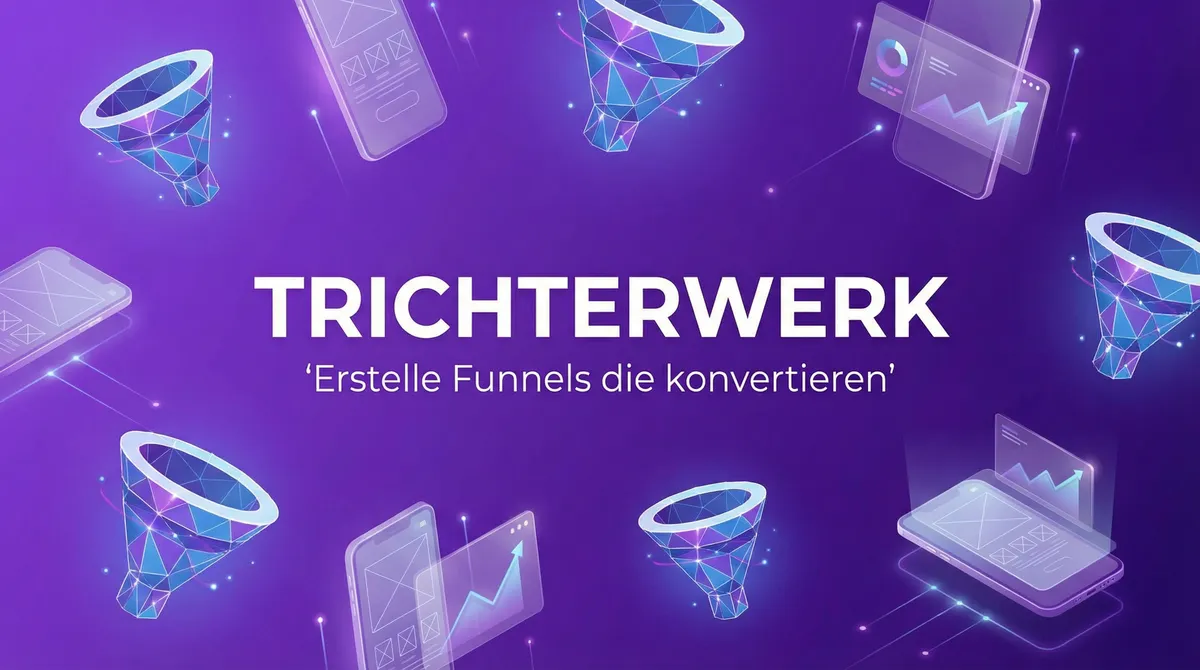
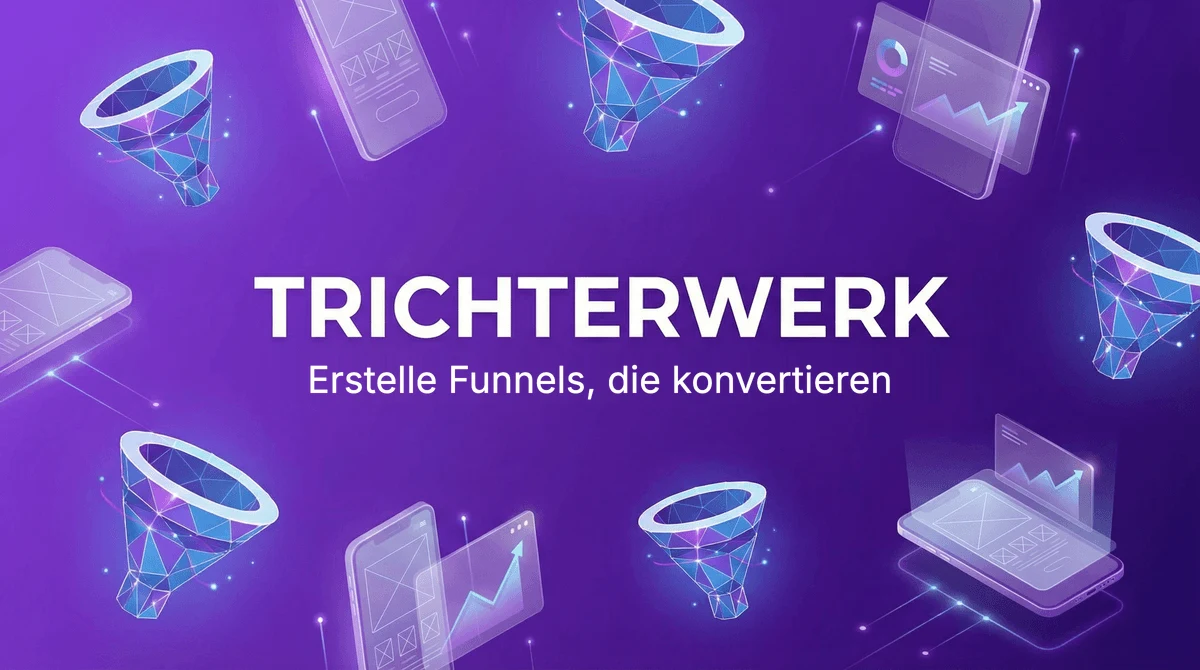
fix: Hero-Bild durch echten Dashboard-Screenshot ersetzt
Das KI-generierte Hero-Bild der Startseite enthielt sichtbare Textfehler
(„Deshboard", „Sales Manument", „All statics", „See All All", Hex-Codes als
Chart-Labels, doppelte Karten) — above the fold auf einem Produkt, das mit
„ohne Code, professionell" wirbt.

- scripts/capture-hero-screenshot.ts: nimmt das echte Dashboard mit Demo-Daten
  per Playwright auf (npm run capture:hero). Nach jedem UI-Update in Sekunden
  wiederholbar, KI-Textfehler sind damit strukturell ausgeschlossen.
- hero-dashboard.png/.webp neu aufgenommen (WebP @2x, PNG @1x als Fallback)
- hero-builder.png/.webp entfernt: zeigte fremdes „LeadFlow"-Branding, war im
  Code ungenutzt, aber unter /images/ öffentlich abrufbar
- og-image: fehlendes Komma und falsche Anführungszeichen im eingebrannten
  Claim korrigiert → „Erstelle Funnels, die konvertieren"
- „vor 1 Tagen" → „vor 1 Tag" in dashboard.tsx und leads.tsx
- alt-Text des Hero-Bilds an den neuen Inhalt angepasst

Changed region(s): [[0.2467, 0.5373, 0.74, 0.597]]

diff --git a/scripts/capture-hero-screenshot.ts b/scripts/capture-hero-screenshot.ts
@@ -1,0 +1,302 @@
+/**
+ * Nimmt das Hero-Bild der Startseite als echten Screenshot des echten Dashboards auf:
+ *   client/public/images/hero-dashboard.png + .webp   (1200×800, @2x gerendert)
+ *
+ * Warum ein Skript statt eines gerenderten Mockups: Das frühere Hero-Bild war
+ * KI-generiert und enthielt sichtbare Textfehler („Deshboard", „Sales Manument",
+ * „All statics"). Ein Screenshot der laufenden App kann solche Fehler nicht
+ * enthalten und lässt sich nach jedem UI-Update in Sekunden neu erzeugen.
+ *
+ * Ablauf: Demo-Konto per API anlegen → Demo-Funnels + Leads einspielen →
+ * Dashboard aufrufen → Screenshot. Die Demo-Daten sind bewusst plausibel, aber
+ * eindeutig fiktiv (E-Mails auf example.com — RFC 2606, kann niemandem gehören).
+ *
+ * Voraussetzung: laufender E2E-Server auf der Wegwerf-DB.
+ *   npm run test:e2e:server      # Terminal 1
+ *   npm run capture:hero         # Terminal 2
+ *
+ * Optionen:
+ *   BASE_URL=…      Zielserver (Default: http://localhost:5137)
+ *   DATABASE_URL=…  Datenbank desselben Servers (Default: die E2E-Wegwerf-DB)
+ *   THEME=dark|light|both   Welche Variante(n) aufnehmen (Default: both)
+ *
+ * Sicherheitsnetz: Das Skript schreibt Demo-Daten und weigert sich deshalb,
+ * gegen eine nicht-lokale Datenbank zu laufen (siehe assertLocalDatabase).
+ */
+import { chromium, type Browser } from "@playwright/test";
+import fs from "node:fs";
+import path from "node:path";
+import pg from "pg";
+import sharp from "sharp";
+
+const BASE_URL = process.env.BASE_URL ?? "http://localhost:5137";
+const DATABASE_URL =
+  process.env.DATABASE_URL ??
+  `postgresql://${process.env.USER ?? "postgres"}@localhost:5432/funnelsoftware_e2e`;
+const THEME = (process.env.THEME ?? "dark") as "dark" | "light" | "both";
+
+const ROOT = path.resolve(import.meta.dirname, "..");
+const IMAGE_DIR = path.join(ROOT, "client/public/images");
+
+/**
+ * Aufnahme-Viewport. Bewusst größer als das Zielmaß und im selben 3:2, damit
+ * mehr vom Dashboard ins Bild passt und die UI im fertigen Hero feiner wirkt.
+ */
+const VIEWPORT = { width: 1440, height: 960 };
+
+/** Zielmaß des Hero-Bilds — identisch zu width/height in landing.tsx, @2x ausgeliefert. */
+const OUTPUT = { width: 2400, height: 1600 };
+
+/**
+ * Demo-Funnels. Namen und Kennzahlen sind so gewählt, dass sie ein plausibel
+ * genutztes Konto zeigen — nicht Rekordwerte, die unglaubwürdig wirken.
+ */
+const DEMO_FUNNELS = [
+  {
+    name: "Erstgespräch Q4-Kampagne",
+    description: "Terminbuchung mit Budget-Qualifizierung",
+    views: 4820,
+    leads: 412,
+  },
+  {
+    name: "Leadmagnet: Funnel-Checkliste",
+    description: "PDF-Download gegen E-Mail-Adresse",
+    views: 3140,
+    leads: 356,
+  },
+  {
+    name: "Webinar-Anmeldung Oktober",
+    description: "Registrierung inkl. Erinnerungsstrecke",
+    views: 2265,
+    leads: 198,
+  },
+];
+
+/**
+ * Demo-Leads für die „Neueste Leads"-Karte. `minutesAgo` steuert die relative
+ * Zeitangabe im UI („vor 12 Min"), `status` die farbige Statuskugel.
+ */
+const DEMO_LEADS = [
+  { name: "Lena Hoffmann", email: "l.hoffmann@example.com", funnel: 0, minutesAgo: 12, status: "new" },
+  { name: "Tobias Reinhardt", email: "t.reinhardt@example.com", funnel: 1, minutesAgo: 47, status: "new" },
+  { name: "Sandra Költzsch", email: "s.koeltzsch@example.com", funnel: 0, minutesAgo: 185, status: "contacted" },
+  { name: "Michael Bauer", email: "m.bauer@example.com", funnel: 2, minutesAgo: 320, status: "qualified" },
+  { name: "Nadine Wolters", email: "n.wolters@example.com", funnel: 1, minutesAgo: 1490, status: "converted" },
+];
+
+/**
+ * Das Skript legt Demo-Daten an und darf deshalb nie eine echte Datenbank
+ * treffen. Erlaubt sind nur lokale Hosts — die Prod-DB läuft remote.
+ */
+function assertLocalDatabase(url: string): void {
+  const host = new URL(url).hostname;
+  if (!["localhost", "127.0.0.1", "::1"].includes(host)) {
+    console.error(
+      `Abbruch: DATABASE_URL zeigt auf "${host}", nicht auf localhost.\n` +
+        `Dieses Skript schreibt Demo-Daten und darf nur gegen eine lokale Wegwerf-DB laufen.`,
+    );
+    process.exit(1);
+  }
+}
+
+async function assertServerReachable(): Promise<void> {
+  try {
+    const res = await fetch(BASE_URL, { signal: AbortSignal.timeout(5000) });
+    if (!res.ok) throw new Error(`HTTP ${res.status}`);
+  } catch (err) {
+    console.error(
+      `Kein Server unter ${BASE_URL} erreichbar (${(err as Error).message}).\n` +
+        `Starte zuerst: npm run test:e2e:server`,
+    );
+    process.exit(1);
+  }
+}
+
+/**
+ * Legt das Demo-Konto an und verifiziert es. Läuft über die echten Endpunkte,
+ * damit das Konto denselben Zustand hat wie ein regulär registrierter Nutzer.
+ * Die Session-Cookies landen im BrowserContext, aus dem `request` stammt.
+ */
+async function createDemoAccount(
+  request: import("@playwright/test").APIRequestContext,
+  pool: pg.Pool,
+  email: string,
+): Promise<number> {
+  const res = await request.post("/api/auth/register", {
+    data: { username: email.split("@")[0], email, password: "HeroDemo2026!" },
+  });
+  if (res.status() !== 201) {
+    throw new Error(`Registrierung fehlgeschlagen (${res.status()}): ${await res.text()}`);
+  }
+
+  const { rows } = await pool.query<{ id: number; email_verification_token: string }>(
+    "SELECT id, email_verification_token FROM users WHERE email = $1",
+    [email],
+  );
+  const user = rows[0];
+  if (!user) throw new Error(`Demo-Konto ${email} nicht in der DB gefunden`);
+
+  const verify = await request.get(
+    `/api/auth/verify-email?token=${encodeURIComponent(user.email_verification_token)}`,
+  );
+  if (!verify.ok()) throw new Error(`E-Mail-Verifikation fehlgeschlagen (${verify.status()})`);
+
+  // Aktives Abo + Anzeigename: unterdrückt den Trial-Ablauf-Banner, der sonst
+  // quer über dem Screenshot läge, und füllt die Begrüßung.
+  await pool.query(
+    `UPDATE users
+        SET subscription_status = 'active',
+            subscription_plan = 'pro',
+            is_pro = true,
+            display_name = 'Demo',
+            email_verified_at = now()
+      WHERE id = $1`,
+    [user.id],
+  );
+
+  return user.id;
+}
+
+/** Spielt Funnels und Leads direkt in die DB — Views/Leads-Zähler sind sonst nur über Tausende echter Requests erreichbar. */
+async function seedDemoData(pool: pg.Pool, userId: number, runId: string): Promise<void> {
+  const funnelIds: number[] = [];
+
+  for (const [i, funnel] of DEMO_FUNNELS.entries()) {
+    const { rows } = await pool.query<{ id: number }>(
+      `INSERT INTO funnels (user_id, name, description, status, slug, pages, views, leads_count, created_at, updated_at)
+       VALUES ($1, $2, $3, 'published', $4, $5::jsonb, $6, $7, now() - ($8 || ' days')::interval, now())
+       RETURNING id`,
+      [
+        userId,
+        funnel.name,
+        funnel.description,
+        `demo-${runId}-${i}`,
+        JSON.stringify([
+          { id: "page-1", type: "welcome", title: funnel.name, elements: [], buttonText: "Start" },
+        ]),
+        funnel.views,
+        funnel.leads,
+        String(30 - i * 7),
+      ],
+    );
+    funnelIds.push(rows[0].id);
+  }
+
+  for (const lead of DEMO_LEADS) {
+    await pool.query(
+      `INSERT INTO leads (funnel_id, user_id, name, email, status, source, created_at)
+       VALUES ($1, $2, $3, $4, $5, 'demo', now() - ($6 || ' minutes')::interval)`,
+      [funnelIds[lead.funnel], userId, lead.name, lead.email, lead.status, String(lead.minutesAgo)],
+    );
+  }
+}
+
+/** Nimmt das Dashboard in einem Theme auf und schreibt PNG + WebP. */
+async function capture(browser: Browser, theme: "dark" | "light", suffix: string): Promise<void> {
+  const context = await browser.newContext({
+    // Ohne baseURL scheitern die relativen Pfade in page.request/page.goto —
+    // das Skript läuft außerhalb der Playwright-Config, die sie sonst liefert.
+    baseURL: BASE_URL,
+    viewport: VIEWPORT,
+    // @2x rendern: Der Screenshot ist danach 2400×1600 und bleibt auf
+    // Retina-Displays scharf, wenn er auf 1200 CSS-Pixel skaliert wird.
+    deviceScaleFactor: 2,
+    locale: "de-DE",
+    timezoneId: "Europe/Berlin",
+    reducedMotion: "reduce",
+  });
+
+  // Overlays stummschalten, die sonst über dem Dashboard lägen.
+  await context.addInitScript((selectedTheme: string) => {
+    localStorage.setItem("trichterwerk-theme", selectedTheme);
+    localStorage.setItem("onboarding-completed", "true");
+    localStorage.setItem("trichterwerk-cookie-consent", "true");
+    localStorage.setItem(
+      "trichterwerk-cookie-preferences",
+      JSON.stringify({ necessary: true, analytics: false, marketing: false }),
+    );
+  }, theme);
+
+  // Session auf UTC: Die Zeitstempel im Schema sind `timestamp without time
+  // zone`, und der Server-Prozess liest sie als UTC. Schriebe dieses Skript in
+  // lokaler Zeit (Europe/Berlin), lägen die Leads zwei Stunden in der Zukunft —
+  // im Dashboard stünde dann „vor -108 Min".
+  const pool = new pg.Pool({
+    connectionString: DATABASE_URL,
+    max: 2,
+    options: "-c timezone=UTC",
+  });
+  const page = await context.newPage();
+
+  try {
+    const runId = Date.now().toString(36) + Math.random().toString(36).slice(2, 6);
+    const email = `hero-${runId}@example.com`;
+
+    const userId = await createDemoAccount(page.request, pool, email);
+    await seedDemoData(pool, userId, runId);
+
+    await page.goto("/dashboard", { waitUntil: "domcontentloaded" });
+
+    // Auf echte Daten warten, nicht auf die Skeleton-Platzhalter: Der
+    // Funnel-Name erscheint erst, wenn beide Queries aufgelöst sind.
+    await page.getByText(DEMO_FUNNELS[0].name).first().waitFor({ timeout: 20_000 });
+    await page.getByText(DEMO_LEADS[0].name).first().waitFor({ timeout: 20_000 });
+
+    // Webfonts fertig laden lassen, sonst rendert der Screenshot Fallback-Schrift.
+    await page.evaluate(() => document.fonts.ready);
+    await page.waitForTimeout(600);
+
+    const png = await page.screenshot({ type: "png" });
+    const target = path.join(IMAGE_DIR, `hero-dashboard${suffix}`);
+
+    // WebP in @2x (das ist die Datei, die praktisch jeder Browser bekommt),
+    // PNG nur in @1x — es ist reiner Fallback und muss nicht retina-scharf sein.
+    await sharp(png)
+      .resize(OUTPUT.width, OUTPUT.height, { fit: "fill" })
+      .webp({ quality: 82 })
+      .toFile(`${target}.webp`);
+    await sharp(png)
+      .resize(OUTPUT.width / 2, OUTPUT.height / 2, { fit: "fill" })
+      .png({ compressionLevel: 9 })
+      .toFile(`${target}.png`);
+
+    const kb = (f: string) => Math.round(fs.statSync(f).size / 1024);
+    console.log(
+      `  ✓ ${theme}: hero-dashboard${suffix}.png (${kb(`${target}.png`)} KB) + .webp (${kb(`${target}.webp`)} KB)`,
+    );
+  } finally {
+    await pool.end();
+    await context.close();
+  }
+}
+
+async function main() {
+  assertLocalDatabase(DATABASE_URL);
+  await assertServerReachable();
+  fs.mkdirSync(IMAGE_DIR, { recursive: true });
+
+  const themes: Array<{ theme: "dark" | "light"; suffix: string }> =
+    THEME === "both"
+      ? [
+          { theme: "dark", suffix: "" },
+          { theme: "light", suffix: "-light" },
+        ]
+      : [{ theme: THEME, suffix: "" }];
+
+  const browser = await chromium.launch();
+  try {
+    for (const { theme, suffix } of themes) {
+      console.log(`▸ Dashboard aufnehmen (${theme})`);
+      await capture(browser, theme, suffix);
+    }
+  } finally {
+    await browser.close();
+  }
+
+  console.log(`\nFertig → ${IMAGE_DIR}`);
+}
+
+main().catch((err) => {
+  console.error(err);
+  process.exit(1);
+});

diff --git a/client/src/pages/landing.tsx b/client/src/pages/landing.tsx
@@ -471,7 +471,7 @@ export default function Landing() {
               <source srcSet="/images/hero-dashboard.webp" type="image/webp" />
               <img
                 src="/images/hero-dashboard.png"
-                alt="Trichterwerk Dashboard mit Funnel Performance"
+                alt="Das Trichterwerk-Dashboard: Views, Leads und Conversion-Rate der aktiven Funnels auf einen Blick"
                 width={1200}
                 height={800}
                 className="w-full h-auto"

diff --git a/client/src/pages/dashboard.tsx b/client/src/pages/dashboard.tsx
@@ -156,7 +156,9 @@ function LeadRow({ lead }: { lead: Lead }) {
 
     if (diffMins < 60) return `vor ${diffMins} Min`;
     if (diffHours < 24) return `vor ${diffHours} Std`;
-    return `vor ${diffDays} Tagen`;
+    // Singular ausschreiben: „vor 1 Tagen" wäre falsch — und landet sonst im
+    // Hero-Screenshot der Startseite (scripts/capture-hero-screenshot.ts).
+    return diffDays === 1 ? "vor 1 Tag" : `vor ${diffDays} Tagen`;
   };
 
   return (

diff --git a/client/src/pages/leads.tsx b/client/src/pages/leads.tsx
@@ -505,6 +505,7 @@ function LeadRow({
 
     if (diffMins < 60) return `vor ${diffMins} Min`;
     if (diffHours < 24) return `vor ${diffHours} Std`;
+    if (diffDays === 1) return "vor 1 Tag";
     if (diffDays < 7) return `vor ${diffDays} Tagen`;
     return date.toLocaleDateString("de-DE", { day: "2-digit", month: "short" });
   };
